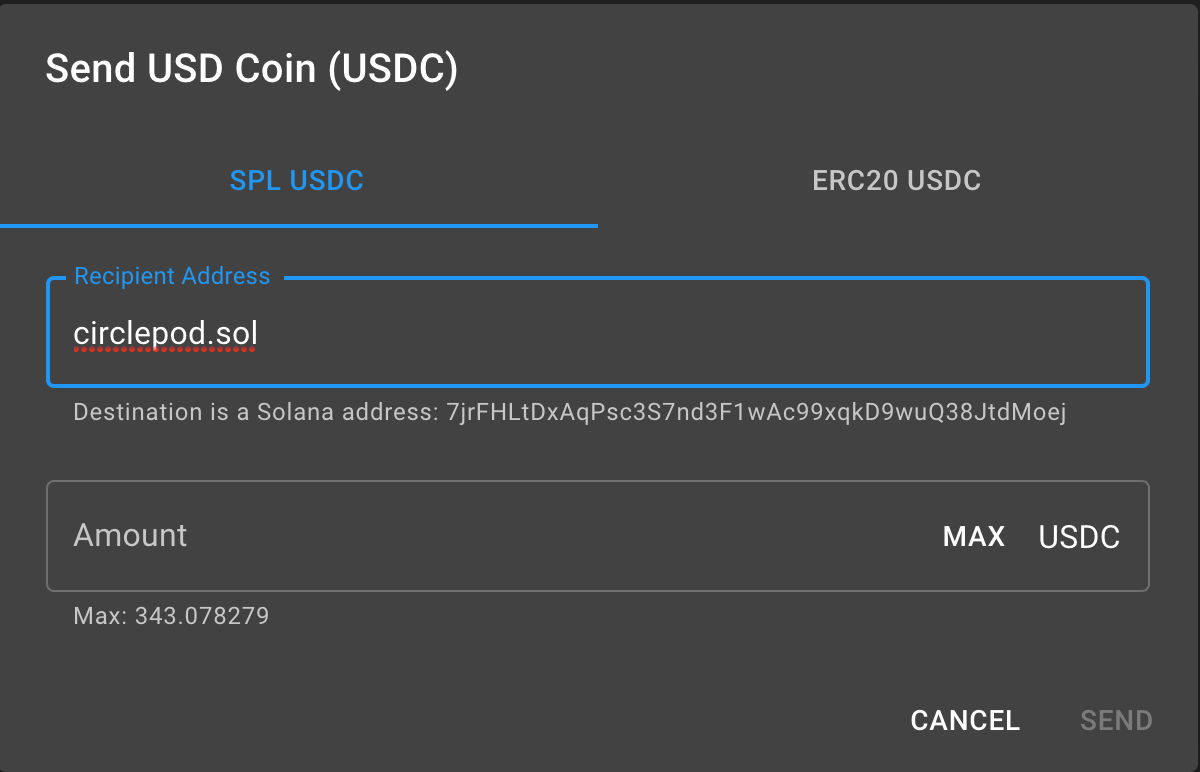
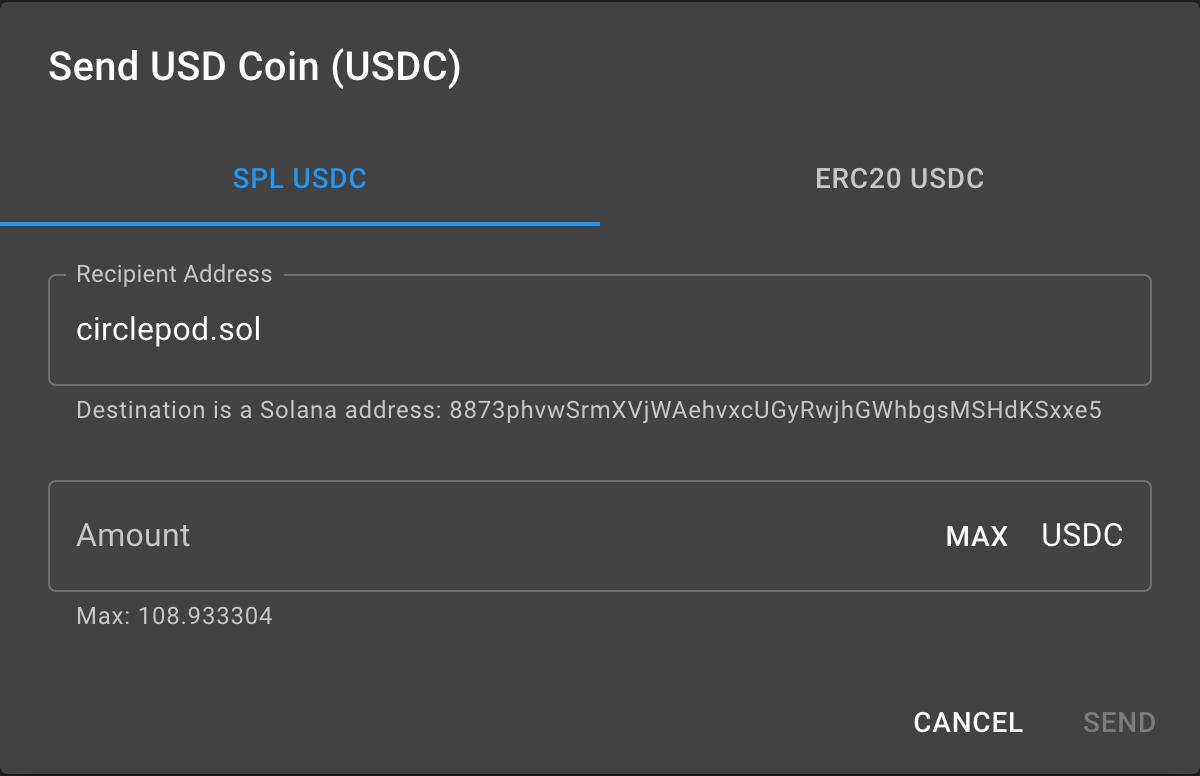
fix(sponsor): 調整 Sponsor 地址

diff --git a/docs/sponsor.md b/docs/sponsor.md
@@ -32,7 +32,7 @@ If you have any questions, please contact us on [Discord](https://discord.gg/WRb
 
 ## Sponsor Account Address
 
-- Solana - USDC - `HiZAoMTvQgCs9VkkL3FUMZnEuVwLVqzt62e6kfaXzHZu` or `@CirclepodP` or `circlepod.sol` [like this](/docs/sponsor#solana-domain)
+- Solana - USDC - `6uFDPQNGnVFCvhZFX3aaeFZMF2pVzzSaARPfMTM4iz7P` or `@CirclepodP` or `circlepod.sol` [like this](/docs/sponsor#solana-domain)
 
 - TRC20 - USDT `TMKnDEpYyctfqseTJMW6wGLZSezxgPvRxo`
 
